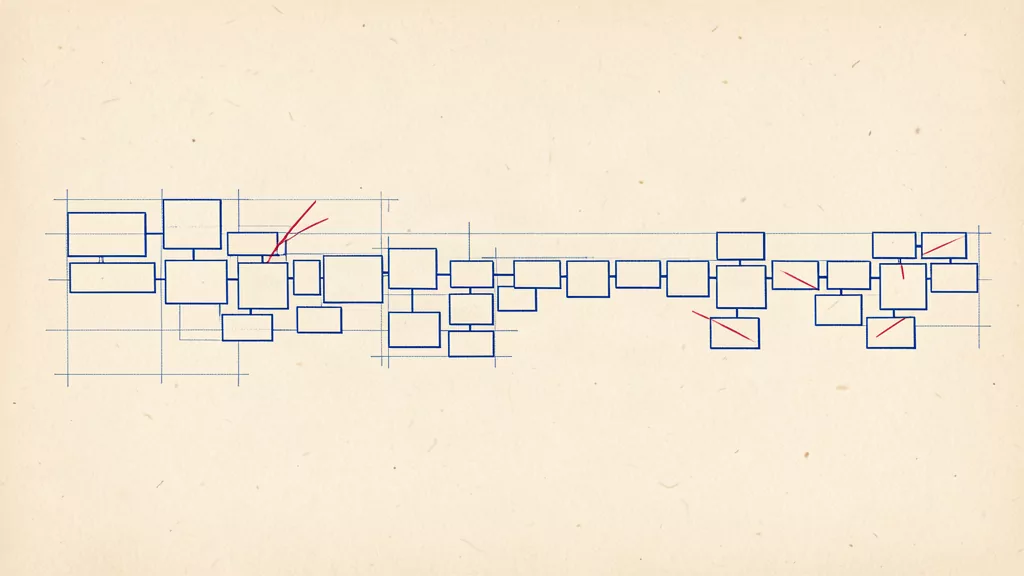
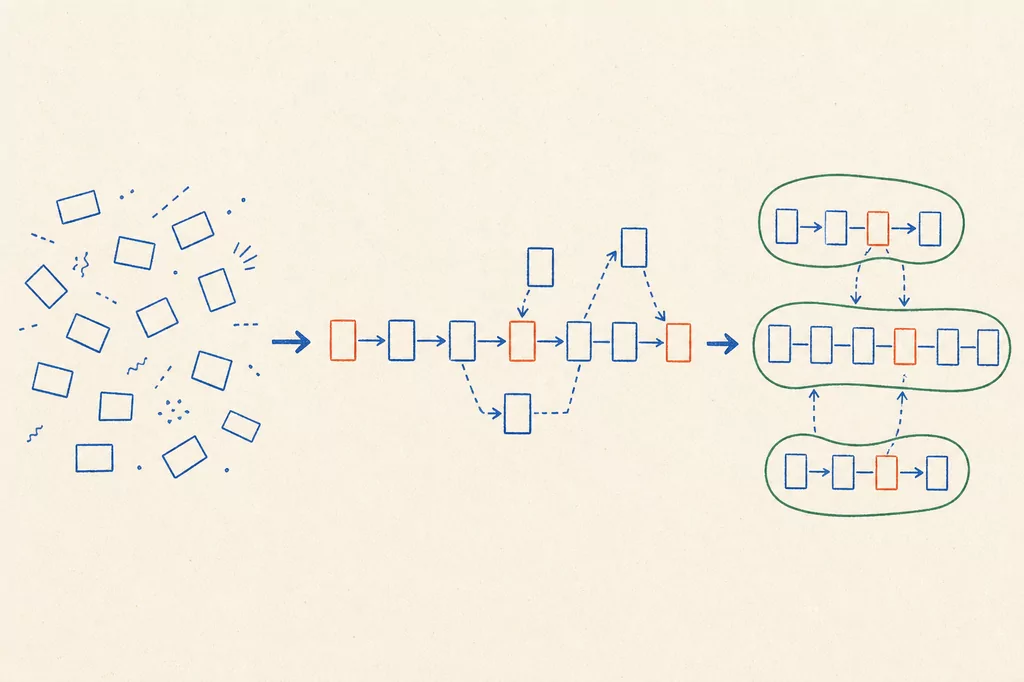
Improve EventStorming lesson plate

diff --git a/sap/cap-08-eventstorming.html b/sap/cap-08-eventstorming.html
@@ -115,7 +115,7 @@
     </ul>
 
     <figure class="lk-fig">
-      <img src="assets/img/eventstorming-workshop.webp" alt="Editorial plate of blank event notes gathering into domain clusters along a long horizontal timeline, with pivotal notes marked in vermilion" width="1024" height="576" loading="lazy" decoding="async">
+      <img src="assets/img/eventstorming-workshop.webp?v=2" alt="Editorial plate showing scattered event cards becoming an ordered timeline and then three connected bounded-context clusters, with pivotal events marked in vermilion" width="1024" height="682" loading="lazy" decoding="async">
       <figcaption><b>Plate 8.0</b> &mdash; An illustrative reconstruction of the modelling surface: many short events accumulate along one timeline, then reveal clusters and pivotal transitions. The exact technical sequence remains in Plate 8.1 below.</figcaption>
     </figure>
 
